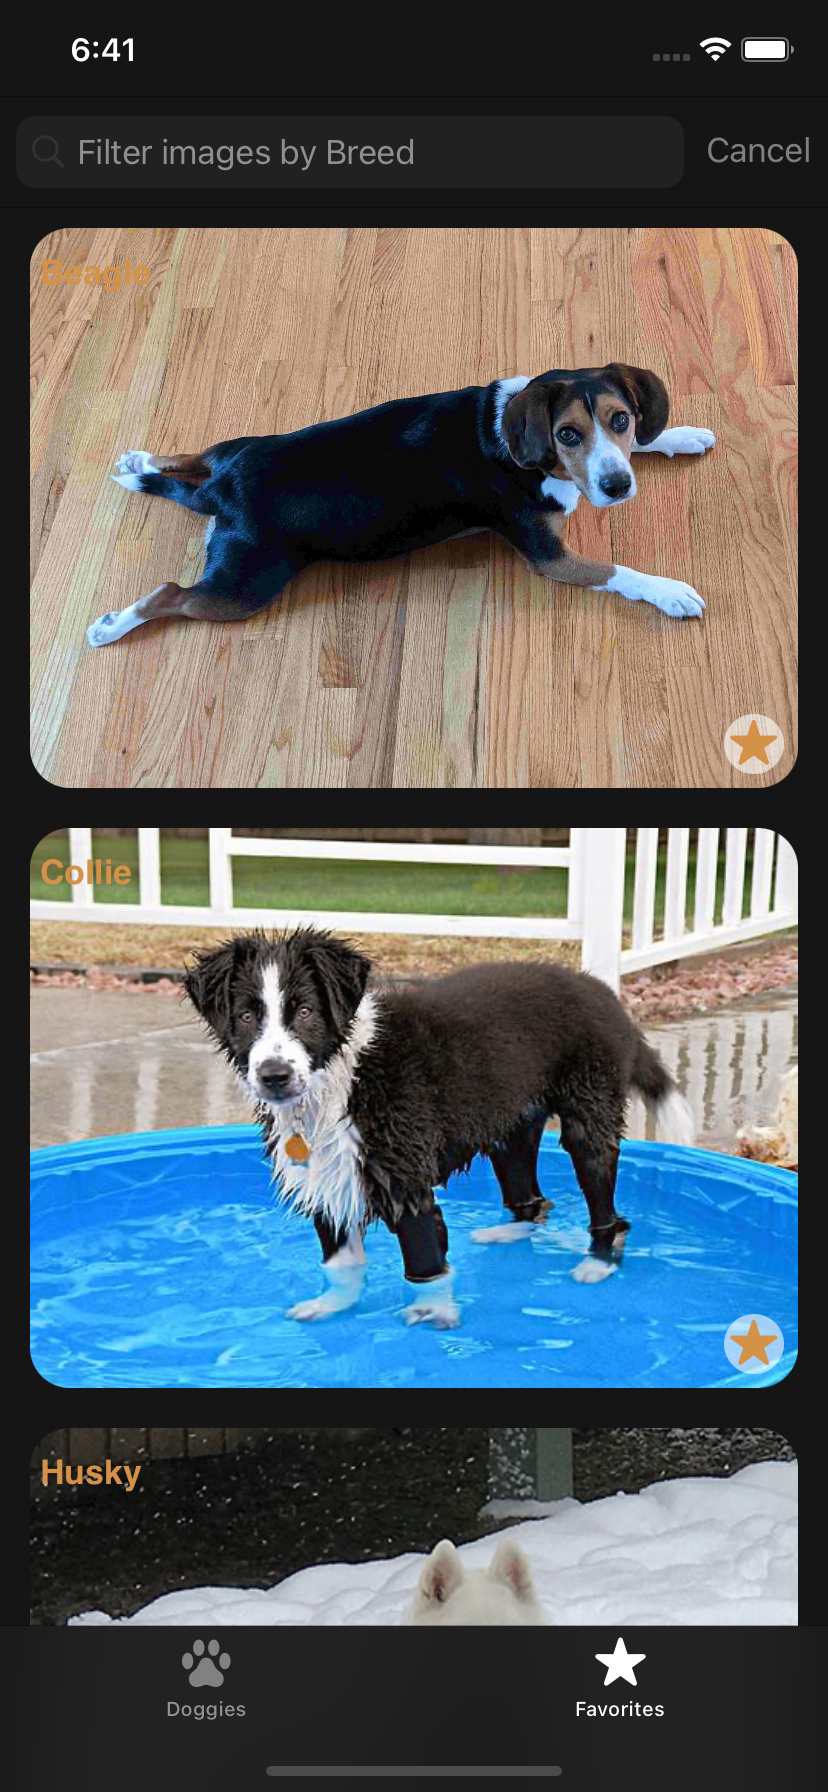
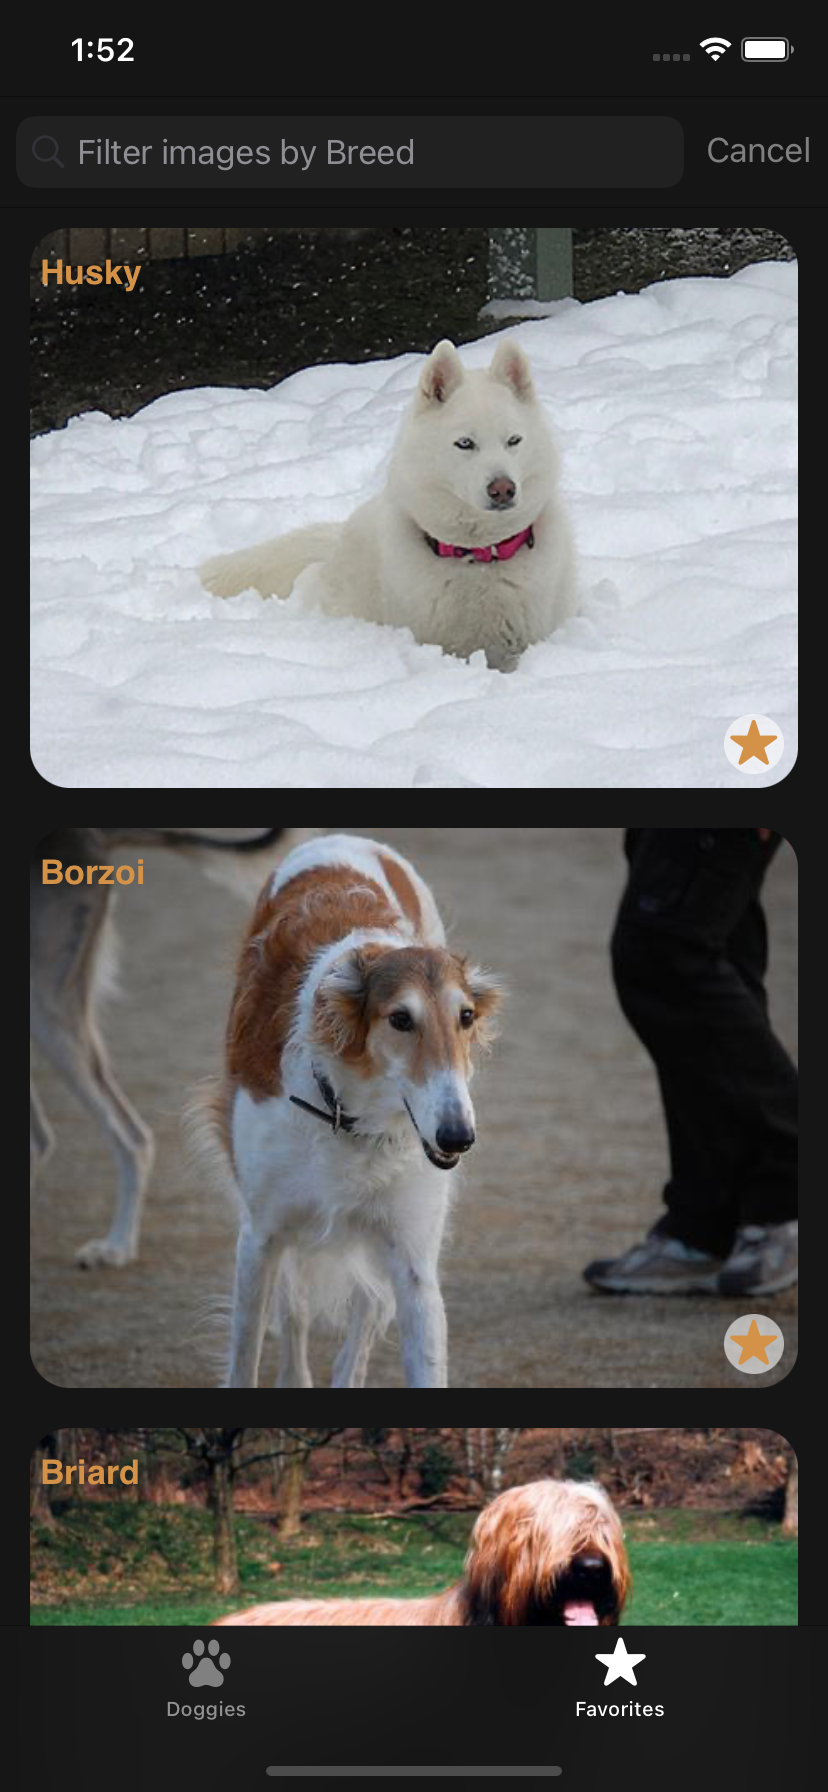
replace sceenshots

diff --git a/README.md b/README.md
@@ -2,9 +2,7 @@
 
 <br />
 <p align="center">
-  <a href="https://github.com/alexanderritik/Best-README-Template">
-    <img src="logo.jpeg" alt="Logo" width="100" height="100">
-  </a>
+    <img src="Logo/logo.png" alt="Logo" width="100" height="100">
   <p align="center">
     This app allow user to search dogs by breed
   </p>
